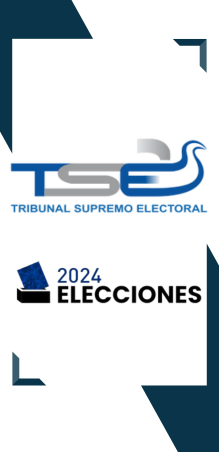
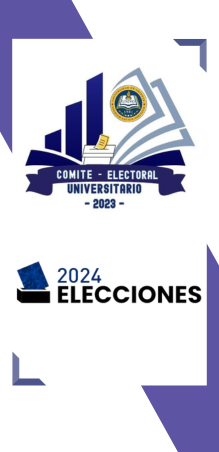
validacion de personas que llegaron a votar

diff --git a/src/app/public/components/partidos-politicos/management-partidos-politicos/management-partidos-politicos.component.html b/src/app/public/components/partidos-politicos/management-partidos-politicos/management-partidos-politicos.component.html
@@ -5,7 +5,7 @@
     </ol>
 </nav>
 
-<div class="row"  *ngFor="let pp of this.PartidoPolitico">
+<div class="row" *ngFor="let pp of this.PartidoPolitico">
     <div *ngIf="obtenidoPartidoPolitico" class="col-md-12 stretch-card">
         <div class="card">
 
@@ -64,21 +64,24 @@
                                     <div class="card cart" *ngIf="this.personaNaturalEncontrada.length >= 1">
                                         <label class="title">Suba su Imagen</label>
                                         <div class="products">
-                                                <div class="form-group">
-                                                    <div
-                                                      class="custom-file"
-                                                      class="btn btn-default button-rounded-36 float-bottom-right img-data"
-                                                    >
-                                                      <input
-                                                        (change)="onFileSelect($event)"
+                                            <div class="form-group">
+                                                <div class="custom-file"
+                                                    class="btn btn-default button-rounded-36 float-bottom-right img-data">
+                                                    <input (change)="onFileSelect($event)"
                                                         class="form-control custom-file-input cursor-pointer"
-                                                        id="attachment"
-                                                        name="attachment"
-                                                        type="file"
-                                                        id="formFile"
-                                                      />
-                                                    </div>
-                                                  </div>
+                                                        id="attachment" name="attachment" type="file" id="formFile" />
+                                                </div>
+                                            </div>
+                                        </div>
+                                    </div>
+
+                                    
+                                    <div class="card cart" *ngIf="this.personaNaturalEncontrada.length >= 1">
+                                        <label class="title">Rol</label>
+                                        <div class="products">
+                                            <ng-select [multiple]="false" (change)="rol_capturado($event)" [closeOnSelect]="false" class="data-ng-select" [ngModelOptions]="{ standalone: true }"  >
+                                                <ng-option *ngFor="let rol of this.rol_candidato" [value]="rol.name">{{rol.name}}</ng-option>
+                                              </ng-select>
                                         </div>
                                     </div>
 
@@ -99,10 +102,11 @@
                                             </div>
                                             <div class="checkout--footer">
                                                 <label class="price"><sup></sup></label>
-                                                <button *ngIf="pp.candidatos.length <= 0" class="checkout-btn"
+                                                <button *ngIf="pp.candidatos.length <= 2" class="checkout-btn"
                                                     (click)="vincularCandidato(info.id_persona_natural)">Vincular</button>
-                                                <button *ngIf="pp.candidatos.length >= 1" class="checkout-btn"
-                                                    (click)="editarCandidato(pp.candidatos[0].id_candidato, info.id_persona_natural)">Editar Candidato</button>
+                                                <button *ngIf="pp.candidatos.length >2 " class="checkout-btn"
+                                                    (click)="editarCandidato(pp.candidatos[0].id_candidato, info.id_persona_natural)">Editar
+                                                    Candidato</button>
                                             </div>
                                         </div>
                                     </div>
@@ -114,14 +118,21 @@
                                         <span *ngFor="let candb of this.candidatos">
                                             <span *ngIf="candidato.id_candidato == candb.id_candidato">
                                                 <div class="custom-product-tumb">
-                                                    <img [src]="'https://evotes-app-administracion.s3.us-west-2.amazonaws.com/' + candb.foto_candidato" alt="">
+                                                    <img [src]="'https://evotes-app-administracion.s3.us-west-2.amazonaws.com/' + candb.foto_candidato"
+                                                        alt="">
                                                 </div>
                                                 <div class="custom-product-details">
-                                                    <span class="custom-product-catagory">DUI: {{candb.informacion_personal.dui}}</span>
-                                                    <h4 style="color: #363636;">{{candb.informacion_personal.nombres}} {{candb.informacion_personal.apellidos}}</h4>
-                                                    <p>Fecha de Nacimiento: {{this.formatearFecha(candb.informacion_personal.fecha_nacimiento)}}</p>
+                                                    <span class="custom-product-catagory">DUI:
+                                                        {{candb.informacion_personal.dui}}</span>
+                                                    <h4 style="color: #363636;">{{candb.informacion_personal.nombres}}
+                                                        {{candb.informacion_personal.apellidos}}</h4>
+                                                    <p>Fecha de Nacimiento:
+                                                        {{this.formatearFecha(candb.informacion_personal.fecha_nacimiento)}}
+                                                    </p>
                                                     <div class="custom-product-bottom-details">
-                                                        <div class="custom-product-price"><small>Genero:</small>{{candb.informacion_personal.genero}}</div>
+                                                        <div class="custom-product-price">
+                                                            <small>Genero:</small>{{candb.informacion_personal.genero}}
+                                                        </div>
                                                         <div class="custom-product-links">
                                                             <a href=""><i class="fa fa-heart"></i></a>
                                                             <a href=""><i class="fa fa-shopping-cart"></i></a>

diff --git a/src/app/public/components/partidos-politicos/management-partidos-politicos/management-partidos-politicos.component.ts b/src/app/public/components/partidos-politicos/management-partidos-politicos/management-partidos-politicos.component.ts
@@ -25,10 +25,14 @@ export class ManagementPartidosPoliticosComponent implements OnInit {
   public candidatos: any[] = []
   public id_candidatos: any[] = []
 
+  public rol_candidato: any[] = [];
+
   public formData: any = new FormData();
   public formDataEdit: any = new FormData();
 
   public obtenidoPartidoPolitico: boolean = false
+
+  public rol_seleccionado: any
 
   public uploadFiles: any;
   public url = 'https://icon-library.com/images/no-user-image-icon/no-user-image-icon-27.jpg';
@@ -53,6 +57,16 @@ export class ManagementPartidosPoliticosComponent implements OnInit {
     this.traerPartidoPoliticoById()
     this.getPersonasNaturales()
     this.getCandidatos()
+
+    this.rol_candidato = [
+      {
+        name: 'PRESIDENTE'
+      },
+      {
+        name: 'VICEPRESIDENTE'
+      }
+    ]
+
   }
 
   public getPersonasNaturales(){
@@ -64,6 +78,11 @@ export class ManagementPartidosPoliticosComponent implements OnInit {
       console.log(this.personaNatural)
     })
     
+  }
+
+  public rol_capturado(event: any){
+    this.rol_seleccionado = event
+    console.log(event)
   }
 
   public getCandidatos(){
@@ -104,6 +123,7 @@ export class ManagementPartidosPoliticosComponent implements OnInit {
     this.formData.append("id_partido_politico", Number(this.id));
     this.formData.append("id_persona_natural", id_persona_natural);
     this.formData.append("foto_candidato", this.uploadFiles);
+    this.formData.append("rol", this.rol_seleccionado);
 
     Swal.fire({
       title: 'Estas seguro?',
@@ -129,6 +149,14 @@ export class ManagementPartidosPoliticosComponent implements OnInit {
             }, 1500);
           }
           console.log(res)
+        },
+        (error) => {
+          console.error(error); // Imprime el error en la consola
+          Swal.fire({
+            icon: "error",
+            title: "Oops...",
+            text: error.message // Muestra el mensaje de error
+          });
         })
       }
     })

diff --git a/src/app/public/components/jrv/management-jrv/management-jrv.component.ts b/src/app/public/components/jrv/management-jrv/management-jrv.component.ts
@@ -211,8 +211,15 @@ export class ManagementJrvComponent implements OnInit {
                 window.location.reload();
               }, 1500);
             }
+          },
+          (error) => {
+            console.error(error); // Imprime el error en la consola
+            Swal.fire({
+              icon: "error",
+              title: "Oops...",
+              text: error.message // Muestra el mensaje de error
+            });
           })
-        
       }
     })
   }
@@ -344,6 +351,7 @@ export class ManagementJrvComponent implements OnInit {
     }
   }
 
+  //ESTA FUNCION NO SE ESTA USANDO
   public validarUsuario(dui: any){
     Swal.fire({
       title: "Estas seguro que quieres validar a esta persona?",
@@ -377,6 +385,42 @@ export class ManagementJrvComponent implements OnInit {
     }
   });
   console.log(dui);
+}
+
+public validarLlegadaPersonaNaturlaAJrv(dui: any){
+  let cadenaRecuperada: any = localStorage.getItem(`dui-${dui}`);
+  const objetoRecuperado = JSON.parse(cadenaRecuperada);
+  if (objetoRecuperado) {
+    Swal.fire({
+      icon: "error",
+      title: "Oops...",
+      text: "Persona Natural ya asistio a esta JRV!"
+    });
+    return
+  }
+  Swal.fire({
+    title: "Estas seguro?",
+    text: `Deseas validar la asistencia a este centro de votacion a la persona con dui ${dui}!`,
+    icon: "warning",
+    showCancelButton: true,
+    confirmButtonColor: "#3085d6",
+    cancelButtonColor: "#d33",
+    confirmButtonText: "Validar!"
+  }).then((result) => {
+    if (result.isConfirmed) {
+      this.personasNaturales.getPersonaNaturalByDui(dui)
+      .subscribe((data: any) => {
+        let info_persona = JSON.stringify(data);
+        localStorage.setItem(`dui-${dui}`, info_persona)
+        Swal.fire({
+          title: "Validado!",
+          text: "Persona Natural asistio a esta JRV.",
+          icon: "success"
+        });
+      })
+    }
+  });
+
 }
 
   public EnviarMiembros(){

diff --git a/src/app/public/components/jrv/view-jrv/view-jrv.component.ts b/src/app/public/components/jrv/view-jrv/view-jrv.component.ts
@@ -61,11 +61,23 @@ export class ViewJrvComponent implements OnInit {
   public getJrvs() {
     this.jrvSrv.getJrv(this.token)
       .subscribe((data: any) => {
-        console.log(data);
-        for (let jrv of data){
-          this.jrvs.push(jrv)
+        if(this.rol_id == 'root' || this.rol_id == 'admin'){
+          for (let jrv of data){
+            this.jrvs.push(jrv)
+          }
+          this.dataLoadedJrv = true;
+        }else{
+          console.log("entre al else")
+          for (let jrv of data){
+            const algunoIncluyeEntero = jrv.jrv_miembros.some((elemento: any) => {
+              return typeof elemento.id_usuario === 'number' && elemento.id_usuario === this.user_id;
+            });
+            if(algunoIncluyeEntero){
+              this.jrvs.push(jrv)
+            }
+          }
+          this.dataLoadedJrv = true;
         }
-        this.dataLoadedJrv = true;
       })
   }
 
@@ -341,7 +353,5 @@ export class ViewJrvComponent implements OnInit {
     }
   
     rol_id: any = this.getUserInfo('rol');
-    
-    
- 
+    user_id: any = this.getUserInfo('id');
 }

diff --git a/src/app/public/components/auth/login/login.component.html b/src/app/public/components/auth/login/login.component.html
@@ -12,12 +12,12 @@
           </div>
           <div class="col-md-8 ps-md-0">
             <div class="auth-form-wrapper px-4 py-5">
-              <a routerLink="." class="nobleui-logo d-block mb-2">Tribunal Supremo<span> Electoral</span></a>
+              <a routerLink="." class="nobleui-logo d-block mb-2">Comité Electoral<span> Universitario</span></a>
               <h5 class="text-muted fw-normal mb-4">Accede a tu cuenta.</h5>
               <form class="forms-sample" [formGroup]="loginForm" (ngSubmit)="onLogin()">
                 
                 <div class="mb-3">
-                  <label for="exampleInputEmail1" class="form-label">Correo Electrónico</label>
+                  <label for="exampleInputEmail1" class="form-label">Usuario</label>
                   <input type="text" [ngClass]="{ 'is-invalid': submitted && position['usuario']?.errors }" formControlName="usuario" class="form-control" id="exampleInputEmail1" placeholder="Usuario">
                   <div class="invalid-feedback">
                     <mat-error *ngIf="isValidField('usuario')" >

diff --git a/src/app/public/components/jrv/management-jrv/management-jrv.component.html b/src/app/public/components/jrv/management-jrv/management-jrv.component.html
@@ -269,8 +269,9 @@
               <td>
                 {{personas.informacion_personal.genero}}
               </td>
+              <!--ANTES ESTE BOTON SERVIA PARA VALIDAR LA PERSONA NATURAL PERO AHORA LO HACE EL QR-->
               <td style="text-align: left; margin-left: -5px;">
-                <a data-toggle="tooltip" data-placement="top" title="Validar Persona" (click)="validarUsuario(personas.informacion_personal.dui)"
+                <a data-toggle="tooltip" data-placement="top" title="Validar Persona" (click)="validarLlegadaPersonaNaturlaAJrv(personas.informacion_personal.dui)"
                   class="p-button p-button-rounded p-button-warning" style="margin-left: -8px;"><span class="mdi mdi-check-underline-circle-outline"></span></a>&nbsp;
               </td>
             </tr>

diff --git a/src/app/public/components/layout/footer/footer.component.html b/src/app/public/components/layout/footer/footer.component.html
@@ -1,6 +1,3 @@
 <footer class="footer d-flex flex-column flex-md-row align-items-center justify-content-between px-4 py-3 border-top small">
-    <p class="text-muted mb-1 mb-md-0">Copyright © 2023 <a target="_blank">TSE - EL Salvador</a>.</p>
-    
-    
-      
+    <p class="text-muted mb-1 mb-md-0">Copyright © 2023 <a target="_blank">CEU - EL Salvador</a>.</p>    
 </footer>

diff --git a/src/app/core/services/persona-natural.service.ts b/src/app/core/services/persona-natural.service.ts
@@ -56,4 +56,10 @@ export class PersonaNaturalService {
         catchError((err) => this.HandlerErrorSrv.handlerError(err))
       );
   }
+
+  getPersonaNaturalByDui(dui: any): Observable<personaNatural[]> {
+    return this.http
+      .get<any>(`${environment.API_URL}persona-natural/dui/${dui}`)
+      .pipe(map((response: any) => response));
+  }
 }
